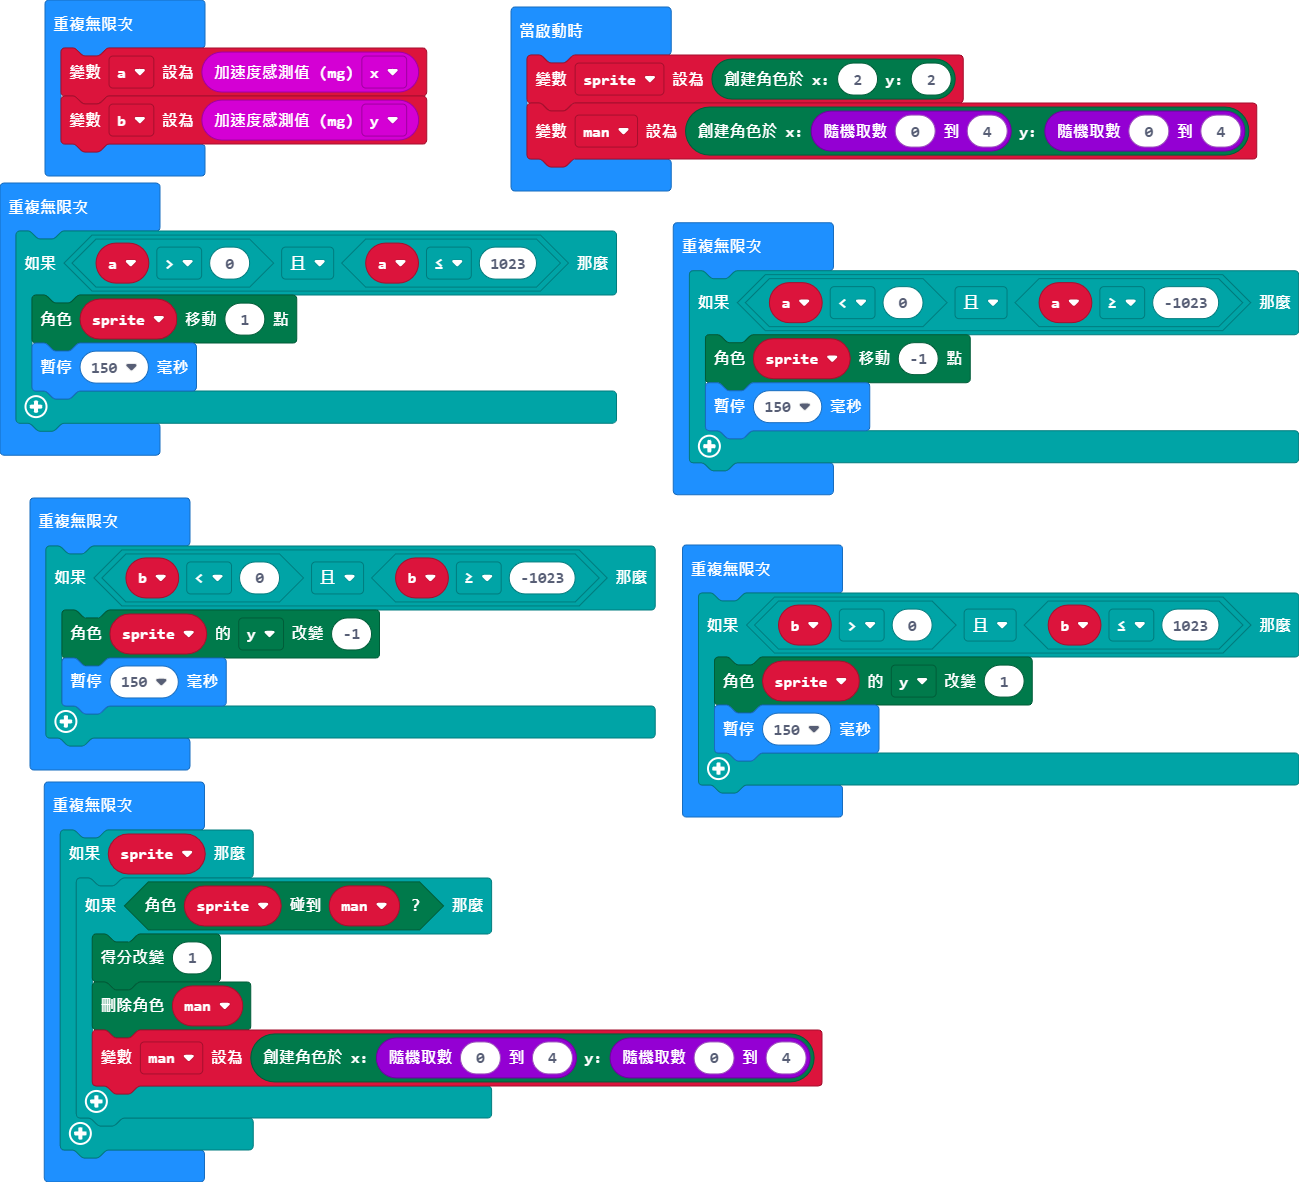
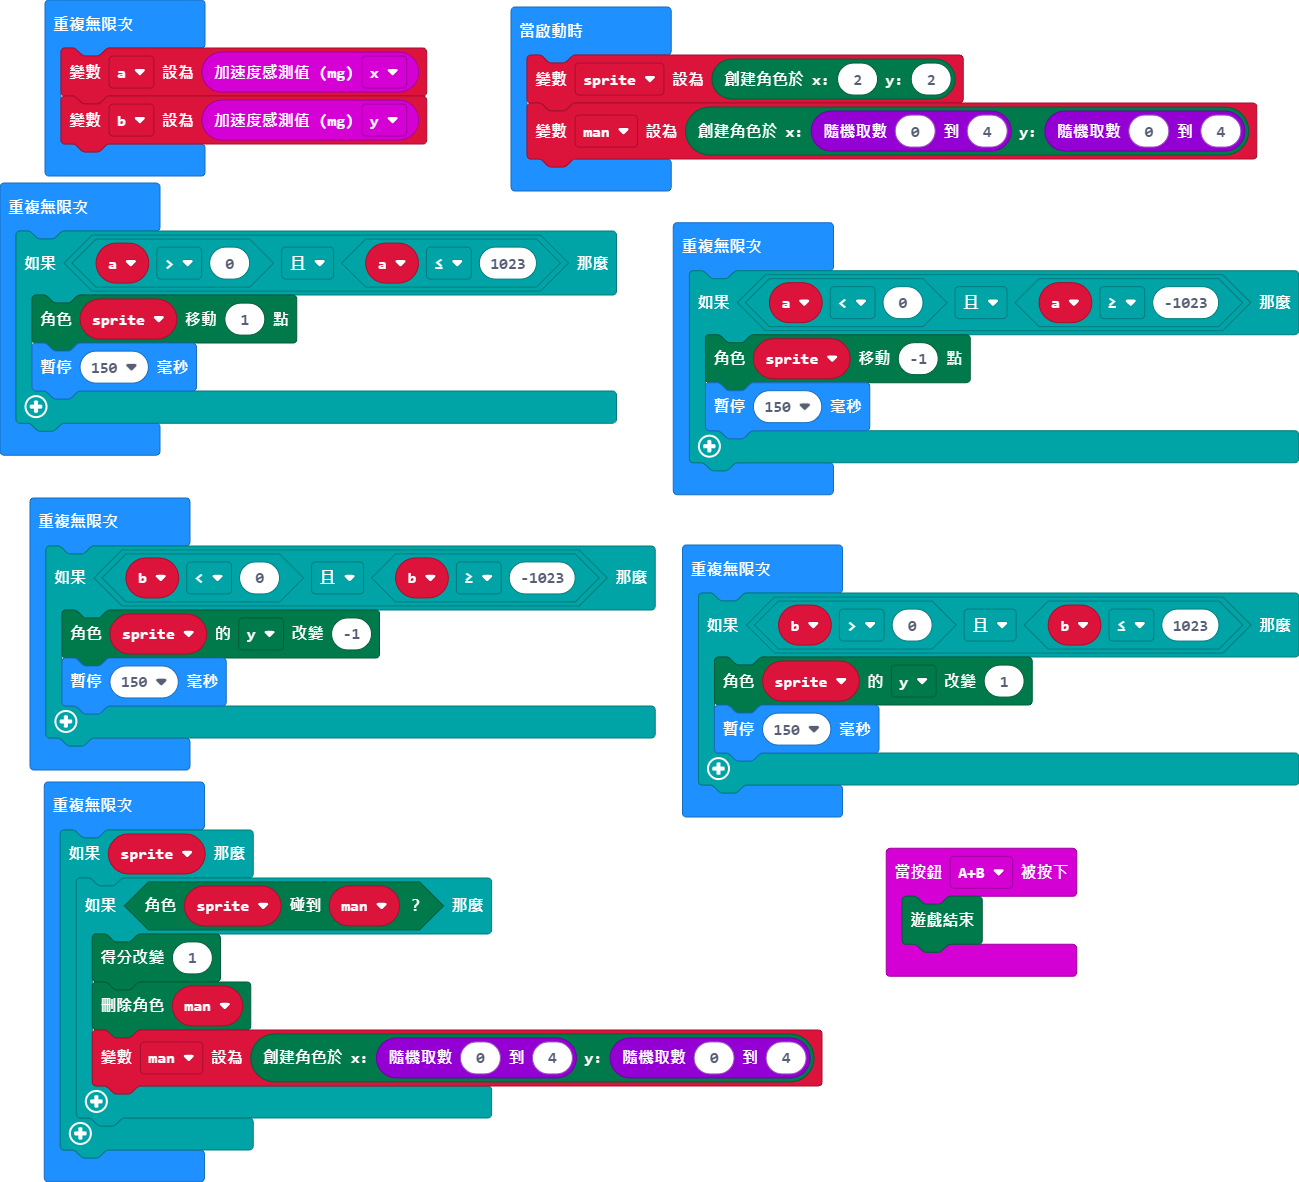
更新 main.blocks, main.ts

Changed region(s): [[0.6774, 0.7005, 0.8314, 0.8528]]

diff --git a/main.ts b/main.ts
@@ -1,3 +1,6 @@
+input.onButtonPressed(Button.AB, function () {
+    game.gameOver()
+})
 let b = 0
 let a = 0
 let sprite = game.createSprite(2, 2)
